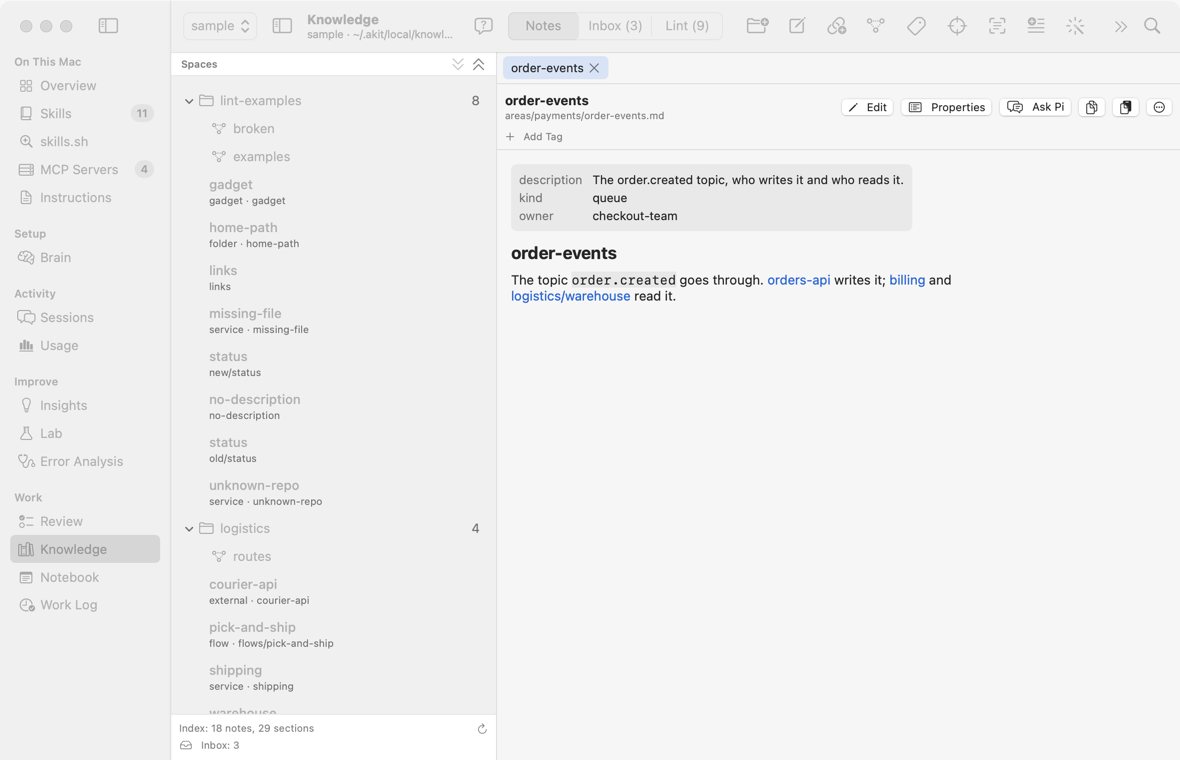
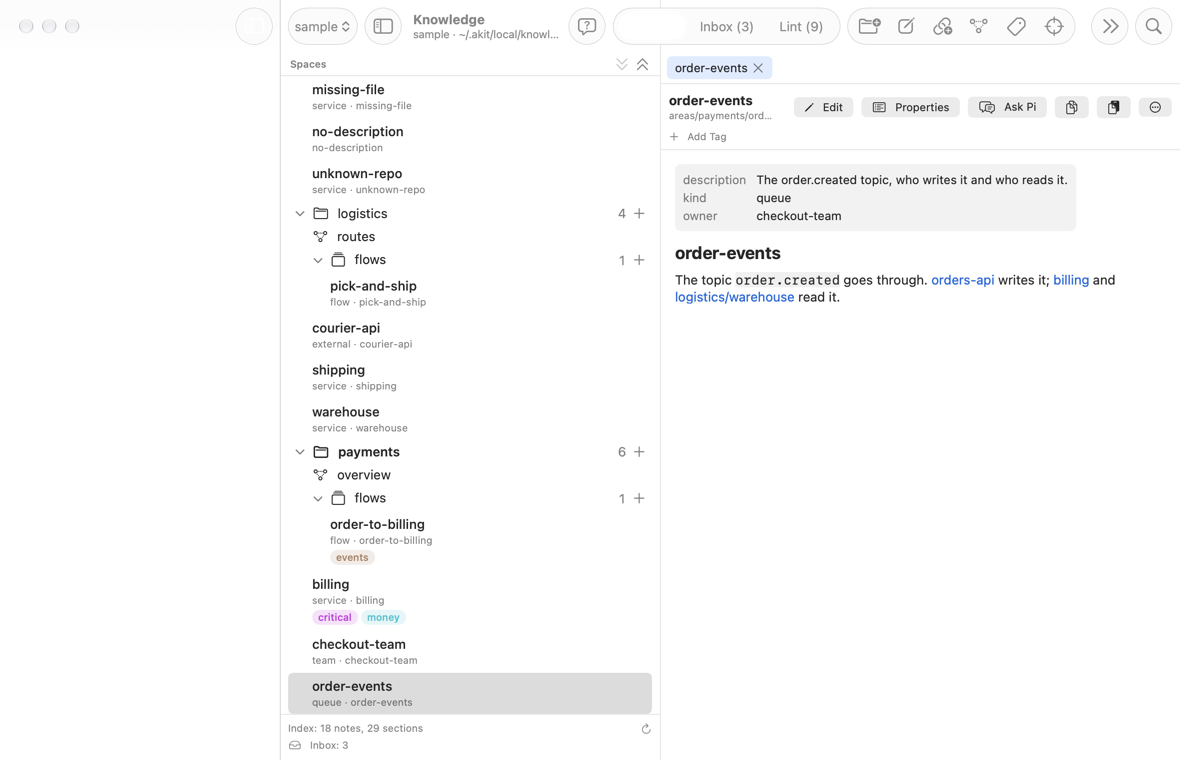
Knowledge: draw the note list as plain rows, not DisclosureGroups
The List of nested DisclosureGroups (an outline view underneath) kept row
heights from before a space unfolded, so note rows with tags were cut or
overlapped, and the status line showed rows through it. Now the list is a
flat LazyVStack of rows with own chevrons and selection, stacked between
the header and the status line; ↑/↓ step through notes and maps, and an
opened note is scrolled into view.

diff --git a/AKit/Knowledge/KnowledgeView.swift b/AKit/Knowledge/KnowledgeView.swift
@@ -18,6 +18,8 @@ struct KnowledgeView: View {
     @State private var sampleRequest: SampleRequest? = DebugSnapshot.options?.tab == "sample-remove" ? .remove : nil
     /// Hide Note List: the note or map gets the whole width (K29). Snapshots: `--tab hide-list`.
     @AppStorage("knowledgeNoteListHidden") private var listHiddenSetting = false
+    /// The note list has the keys: ↑ and ↓ step through its notes and maps.
+    @FocusState private var listFocused: Bool
     private var listHidden: Bool { DebugSnapshot.options.map { $0.tab == "hide-list" } ?? listHiddenSetting }
 
     enum SampleRequest { case add, remove }
@@ -64,14 +66,16 @@ struct KnowledgeView: View {
             } else {
                 HSplitView {
                     if !listHidden {
-                        Group {
+                        // Stacked, not inset: the list's rows never show through the bars.
+                        VStack(spacing: 0) {
                             if model.searchText.trimmingCharacters(in: .whitespaces).isEmpty {
-                                noteList.safeAreaInset(edge: .top, spacing: 0) { listHeader }
+                                listHeader
+                                noteList
                             } else {
                                 SearchResultsList()
                             }
+                            IndexStatusLine()
                         }
-                        .safeAreaInset(edge: .bottom, spacing: 0) { IndexStatusLine() }
                         .frame(minWidth: 200, idealWidth: 260, maxWidth: 380)
                     }
                     if model.map != nil {
@@ -257,55 +261,167 @@ struct KnowledgeView: View {
 
     /// The selection of the list: a note id, or `map:` and a map id. A space's own row isn't
     /// selectable: a click folds or unfolds it.
-    private var listSelection: Binding<String?> {
-        // A note or map in a folded space or group is not given to the list: the list then lit
-        // the row it was folded under. It stays open beside the list all the same.
-        Binding(get: { model.map.map { "map:" + $0 }.flatMap { visible($0) ? $0 : nil } ?? model.note.flatMap { visible($0) ? $0 : nil } },
-                set: { value in
-            // Only a note's or a map's row selects; a space or group row is never a selection.
-            guard let value, value.hasPrefix("map:") || model.notes(in: String(value.split(separator: "/").first ?? "")).contains(where: { $0.id == value })
-            else { return }
-            if value.hasPrefix("map:") {
-                model.open(map: String(value.dropFirst("map:".count)))
-            } else {
-                Task {
-                    await model.closeMap()
-                    model.open(value)
-                }
-            }
-        })
-    }
+    /// The row lit in the note list: the open map, else the open note. A row in a folded space
+    /// or group isn't there to light; its note stays open beside the list all the same.
+    private var selectedRow: String? { model.map.map { "map:" + $0 } ?? model.note }
 
-    /// One column (K29): every space is a foldable group with its note count, and in it the
-    /// space's maps, then its notes.
-    /// Whether a list row (a note id or `map:<id>`) is shown: its space unfolded, and its group too.
-    private func visible(_ row: String) -> Bool {
-        let id = row.hasPrefix("map:") ? String(row.dropFirst("map:".count)) : row
-        guard let area = id.split(separator: "/").first.map(String.init), model.expandedAreas.contains(area) else { return false }
-        if let group = model.notes(in: area).first(where: { $0.id == id })?.group { return !model.collapsedGroups.contains(area + "/" + group) }
-        return true
-    }
+    /// One row of the note list (K29, K37): a space, a group in it, a map, a note, or the hint
+    /// of an empty space or group.
+    private enum ListRow: Identifiable {
+        case space(KnowledgeBase.Area)
+        case group(area: String, name: String, count: Int)
+        case map(String)
+        case note(KnowledgeBase.NoteEntry)
+        case hint(key: String, text: String, depth: Int)
 
-    private var noteList: some View {
-        List(selection: listSelection) {
-            ForEach(model.areas, id: \.name) { area in
-                DisclosureGroup(isExpanded: Binding(get: { model.expandedAreas.contains(area.name) }, set: { open in
-                    if open { model.expandedAreas.insert(area.name) } else { model.expandedAreas.remove(area.name) }
-                    model.choose(area: area.name)
-                })) {
-                    areaRows(area.name)
-                } label: {
-                    spaceRow(area).selectionDisabled()
-                }
+        /// A note's id, `map:<id>` for a map: what `selectedRow` holds.
+        var id: String {
+            switch self {
+            case .space(let area): "space:" + area.name
+            case .group(let area, let name, _): "group:" + area + "/" + name
+            case .map(let id): "map:" + id
+            case .note(let note): note.id
+            case .hint(let key, _, _): "hint:" + key
             }
         }
-        .listStyle(.sidebar)
+
+        /// How far in the row sits: a space's rows one step, a group's two.
+        var depth: Int {
+            switch self {
+            case .space: 0
+            case .group, .map: 1
+            case .note(let note): note.group == nil ? 1 : 2
+            case .hint(_, _, let depth): depth
+            }
+        }
+
+        var selectable: Bool {
+            switch self {
+            case .map, .note: true
+            default: false
+            }
+        }
+    }
+
+    /// The rows of the list, flat: every space, and in an unfolded one its maps, then its groups
+    /// (each with its notes, unless folded), then the notes at its top.
+    private var listRows: [ListRow] {
+        model.areas.flatMap { area -> [ListRow] in
+            guard model.expandedAreas.contains(area.name) else { return [.space(area)] }
+            let maps = model.maps(in: area.name)
+            let notes = model.notes(in: area.name)
+            let groups = model.groups(in: area.name)
+            var rows: [ListRow] = [.space(area)] + maps.map(ListRow.map)
+            for group in groups {
+                let inGroup = notes.filter { $0.group == group }
+                rows.append(.group(area: area.name, name: group, count: inGroup.count))
+                guard !model.collapsedGroups.contains(area.name + "/" + group) else { continue }
+                rows += inGroup.map(ListRow.note)
+                if inGroup.isEmpty {
+                    rows.append(.hint(key: area.name + "/" + group, text: "Empty: New Note… here, or drop a note on the group", depth: 2))
+                }
+            }
+            rows += notes.filter { $0.group == nil }.map(ListRow.note)
+            if maps.isEmpty, notes.isEmpty, groups.isEmpty {
+                rows.append(.hint(key: area.name, text: "No notes yet: New Note… writes one", depth: 1))
+            }
+            return rows
+        }
+    }
+
+    /// One column (K29): every space folds, with its note count, and in it the space's maps, then
+    /// its groups and notes. Plain stacked rows, not a List of DisclosureGroups: an outline
+    /// view keeps row heights from before a space unfolds, so rows were cut or overlapped.
+    private var noteList: some View {
+        let rows = listRows
+        return ScrollViewReader { proxy in
+            ScrollView {
+                LazyVStack(alignment: .leading, spacing: 1) {
+                    ForEach(rows) { row in
+                        listRow(row).id(row.id)
+                    }
+                }
+                .padding(.horizontal, 8)
+                .padding(.vertical, 6)
+            }
+            .focusable()
+            .focused($listFocused)
+            .focusEffectDisabled()
+            .onKeyPress(.upArrow) { step(-1, in: rows) }
+            .onKeyPress(.downArrow) { step(1, in: rows) }
+            // A note opened elsewhere (a link, search, the map) is scrolled into view.
+            .onChange(of: selectedRow) { _, id in
+                if let id { proxy.scrollTo(id) }
+            }
+        }
         .overlay {
             if model.areas.isEmpty {
                 ContentUnavailableView("No spaces", systemImage: "folder",
                                        description: Text("New Area… adds one, like payments."))
             }
         }
+    }
+
+    private func listRow(_ row: ListRow) -> some View {
+        Group {
+            switch row {
+            case .space(let area): spaceRow(area)
+            case .group(let area, let name, let count): groupRow(name, in: area, count: count)
+            case .map(let id): mapRow(id)
+            case .note(let note): noteRow(note)
+            case .hint(_, let text, _): Text(text).font(.callout).foregroundStyle(.secondary)
+            }
+        }
+        .padding(.leading, CGFloat(row.depth) * Self.indent)
+        .padding(.horizontal, 6)
+        .padding(.vertical, 3)
+        .frame(maxWidth: .infinity, alignment: .leading)
+        .background(row.id == selectedRow ? Color(nsColor: .unemphasizedSelectedContentBackgroundColor) : .clear,
+                    in: RoundedRectangle(cornerRadius: 5))
+        .contentShape(Rectangle())
+        .onTapGesture {
+            listFocused = true
+            switch row {
+            case .space(let area): model.toggle(area: area.name)
+            case .group(let area, let name, _): model.toggle(group: name, in: area)
+            case .map, .note: select(row)
+            case .hint: break
+            }
+        }
+    }
+
+    /// One step in: a chevron's width and its gap, so a row's children line up with its icon.
+    private static let indent: CGFloat = 18
+
+    /// The fold chevron of a space or group row.
+    private func chevron(open: Bool) -> some View {
+        Image(systemName: "chevron.right")
+            .font(.caption.weight(.semibold))
+            .foregroundStyle(.secondary)
+            .rotationEffect(.degrees(open ? 90 : 0))
+            .animation(.easeOut(duration: 0.12), value: open)
+            .frame(width: 12)
+    }
+
+    private func select(_ row: ListRow) {
+        switch row {
+        case .map(let id): model.open(map: id)
+        case .note(let note):
+            Task {
+                await model.closeMap()
+                model.open(note.id)
+            }
+        default: break
+        }
+    }
+
+    /// ↑ or ↓ in the list: the note or map above or below the lit one.
+    private func step(_ offset: Int, in rows: [ListRow]) -> KeyPress.Result {
+        let selectable = rows.filter(\.selectable)
+        guard !selectable.isEmpty else { return .ignored }
+        let index = selectable.firstIndex { $0.id == selectedRow }.map { $0 + offset } ?? (offset > 0 ? 0 : selectable.count - 1)
+        if selectable.indices.contains(index) { select(selectable[index]) }
+        return .handled
     }
 
     /// Over the list: Collapse All and Expand All for the spaces.
@@ -331,15 +447,15 @@ struct KnowledgeView: View {
     }
 
     private func spaceRow(_ area: KnowledgeBase.Area) -> some View {
-        HStack {
+        HStack(spacing: 6) {
+            chevron(open: model.expandedAreas.contains(area.name))
             Label(area.name, systemImage: "folder")
                 .fontWeight(area.name == model.area ? .semibold : .regular)
+                .lineLimit(1)
             Spacer()
             Text("\(area.notes)").foregroundStyle(.secondary).monospacedDigit()
             addNoteButton(area: area.name, group: nil)
         }
-        .contentShape(Rectangle())
-        .onTapGesture { model.toggle(area: area.name) }
         // Drag a space onto another to put it there (K31); a dropped note is no space.
         .draggable(Self.spaceDragPrefix + area.name)
         .dropDestination(for: String.self) { items, _ in
@@ -377,48 +493,18 @@ struct KnowledgeView: View {
         }
     }
 
-    /// A space's maps, then its groups (K37) with their notes, then the notes at its top.
-    @ViewBuilder private func areaRows(_ area: String) -> some View {
-        let maps = model.maps(in: area)
-        let notes = model.notes(in: area)
-        let groups = model.groups(in: area)
-        // The row's ForEach id is its selection value (a .tag isn't), so it carries the "map:" itself.
-        ForEach(maps.map { "map:" + $0 }, id: \.self) { row in
-            let id = String(row.dropFirst("map:".count))
-            Label(KnowledgeModel.mapName(id), systemImage: "point.3.connected.trianglepath.dotted")
-                .lineLimit(1)
-                .help("areas/\(id).excalidraw: click to view the map; click a block on it to open its note")
-                .contextMenu {
-                    Button("Show in Finder") {
-                        if let base = model.base { NSWorkspace.shared.activateFileViewerSelecting([base.mapFile(id)]) }
-                    }
-                    Button("Rename…") { model.renameRequest = id }
-                    Button("Delete…", role: .destructive) { model.mapDeleteRequest = id }
+    /// A map of a space: click to view it.
+    private func mapRow(_ id: String) -> some View {
+        Label(KnowledgeModel.mapName(id), systemImage: "point.3.connected.trianglepath.dotted")
+            .lineLimit(1)
+            .help("areas/\(id).excalidraw: click to view the map; click a block on it to open its note")
+            .contextMenu {
+                Button("Show in Finder") {
+                    if let base = model.base { NSWorkspace.shared.activateFileViewerSelecting([base.mapFile(id)]) }
                 }
-        }
-        // The id carries the space: two spaces may both have a group flows, and the list mixes up
-        // rows with one id.
-        ForEach(groups.map { area + "/" + $0 }, id: \.self) { key in
-            let group = String(key.dropFirst(area.count + 1))
-            let inGroup = notes.filter { $0.group == group }
-            DisclosureGroup(isExpanded: Binding(get: { !model.collapsedGroups.contains(area + "/" + group) }, set: { open in
-                if open { model.collapsedGroups.remove(area + "/" + group) } else { model.collapsedGroups.insert(area + "/" + group) }
-            })) {
-                ForEach(inGroup, id: \.id) { noteRow($0) }
-                if inGroup.isEmpty {
-                    Text("Empty: New Note… here, or drop a note on the group").font(.callout).foregroundStyle(.secondary)
-                        .selectionDisabled()
-                }
-            } label: {
-                // Its id is no note: the list must not light it as the selection.
-                groupRow(group, in: area, count: inGroup.count).selectionDisabled()
+                Button("Rename…") { model.renameRequest = id }
+                Button("Delete…", role: .destructive) { model.mapDeleteRequest = id }
             }
-        }
-        ForEach(notes.filter { $0.group == nil }, id: \.id) { noteRow($0) }
-        if maps.isEmpty, notes.isEmpty, groups.isEmpty {
-            Text("No notes yet: New Note… writes one").font(.callout).foregroundStyle(.secondary)
-                .selectionDisabled()
-        }
     }
 
     /// The + of a space or group row: New Note… with that space and group filled in.
@@ -434,14 +520,13 @@ struct KnowledgeView: View {
 
     /// A group's row (K37): a folder in the space, folded and unfolded like a space.
     private func groupRow(_ group: String, in area: String, count: Int) -> some View {
-        HStack {
-            Label(group, systemImage: "rectangle.stack")
+        HStack(spacing: 6) {
+            chevron(open: !model.collapsedGroups.contains(area + "/" + group))
+            Label(group, systemImage: "rectangle.stack").lineLimit(1)
             Spacer()
             Text("\(count)").foregroundStyle(.secondary).monospacedDigit()
             addNoteButton(area: area, group: group)
         }
-        .contentShape(Rectangle())
-        .onTapGesture { model.toggle(group: group, in: area) }
         .dropDestination(for: String.self) { items, _ in
             guard let note = items.first, !note.hasPrefix(Self.spaceDragPrefix) else { return false }
             Task { await model.move(note: note, toArea: area, group: group) }
@@ -469,10 +554,6 @@ struct KnowledgeView: View {
             }
         }
         .padding(.vertical, 2)
-        // Its whole height, never squeezed into a row height the list kept from before the
-        // space unfolded (lines cut at the top or bottom).
-        .fixedSize(horizontal: false, vertical: true)
-        .tag(Optional(note.id))
         // Drag onto an open map: a block linked to the note (K6); onto a group: moved there (K37).
         .draggable(note.id)
         .contextMenu {

diff --git a/docs/guides/knowledge.ru.md b/docs/guides/knowledge.ru.md
@@ -260,7 +260,7 @@ payments/billing  billing: Bills each order once.
 - Список заметок. Каждое пространство — папка, которую можно свернуть и развернуть, как в Obsidian. Справа от имени — число заметок. Внутри — карты пространства, потом его заметки: заголовок, вид, путь внутри пространства и цветные метки заметки, если они есть.
 - Панель заметки: открытые вкладки и одна заметка.
 
-Щелчок по имени пространства сворачивает или разворачивает его. AKit помнит свёрнутые пространства для каждой базы. Когда вы открываете заметку или карту, её пространство разворачивается само.
+Щелчок по имени пространства сворачивает или разворачивает его. AKit помнит свёрнутые пространства для каждой базы. Когда вы открываете заметку или карту, её пространство разворачивается само, а список прокручивается к ней. Стрелки ↑ и ↓ переходят к заметке или карте выше или ниже.
 
 ### Просто: свернуть всё: Collapse All
 <!-- section: spaces-collapse-all -->
